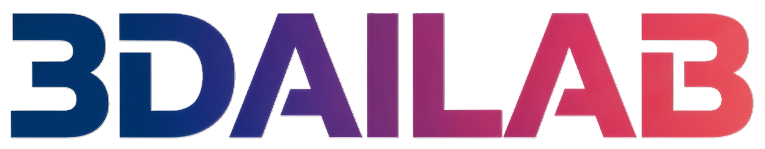
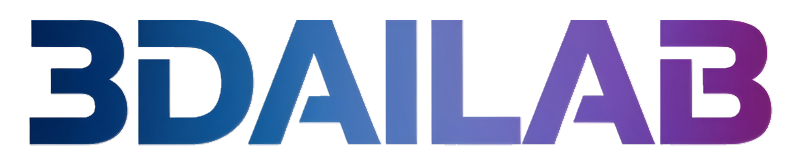
78401784

diff --git a/nav.html b/nav.html
@@ -8,7 +8,7 @@
     <div class="flex-shrink-0 flex items-center">
       <a href="index.html" class="flex items-center hover:opacity-80 transition-opacity">
         <!-- 注意：h-48 可能会超出 20px 的导航栏高度，建议根据实际 Logo 形状微调 -->
-        <img src="img/3DAILAB2_NoBG.png" alt="3DAILAB Logo" class="h-16 w-auto object-contain mr-3" />
+        <img src="img/3DAILAB4_NoBG.png" alt="3DAILAB Logo" class="h-16 w-auto object-contain mr-3" />
       </a>
     </div>
 
